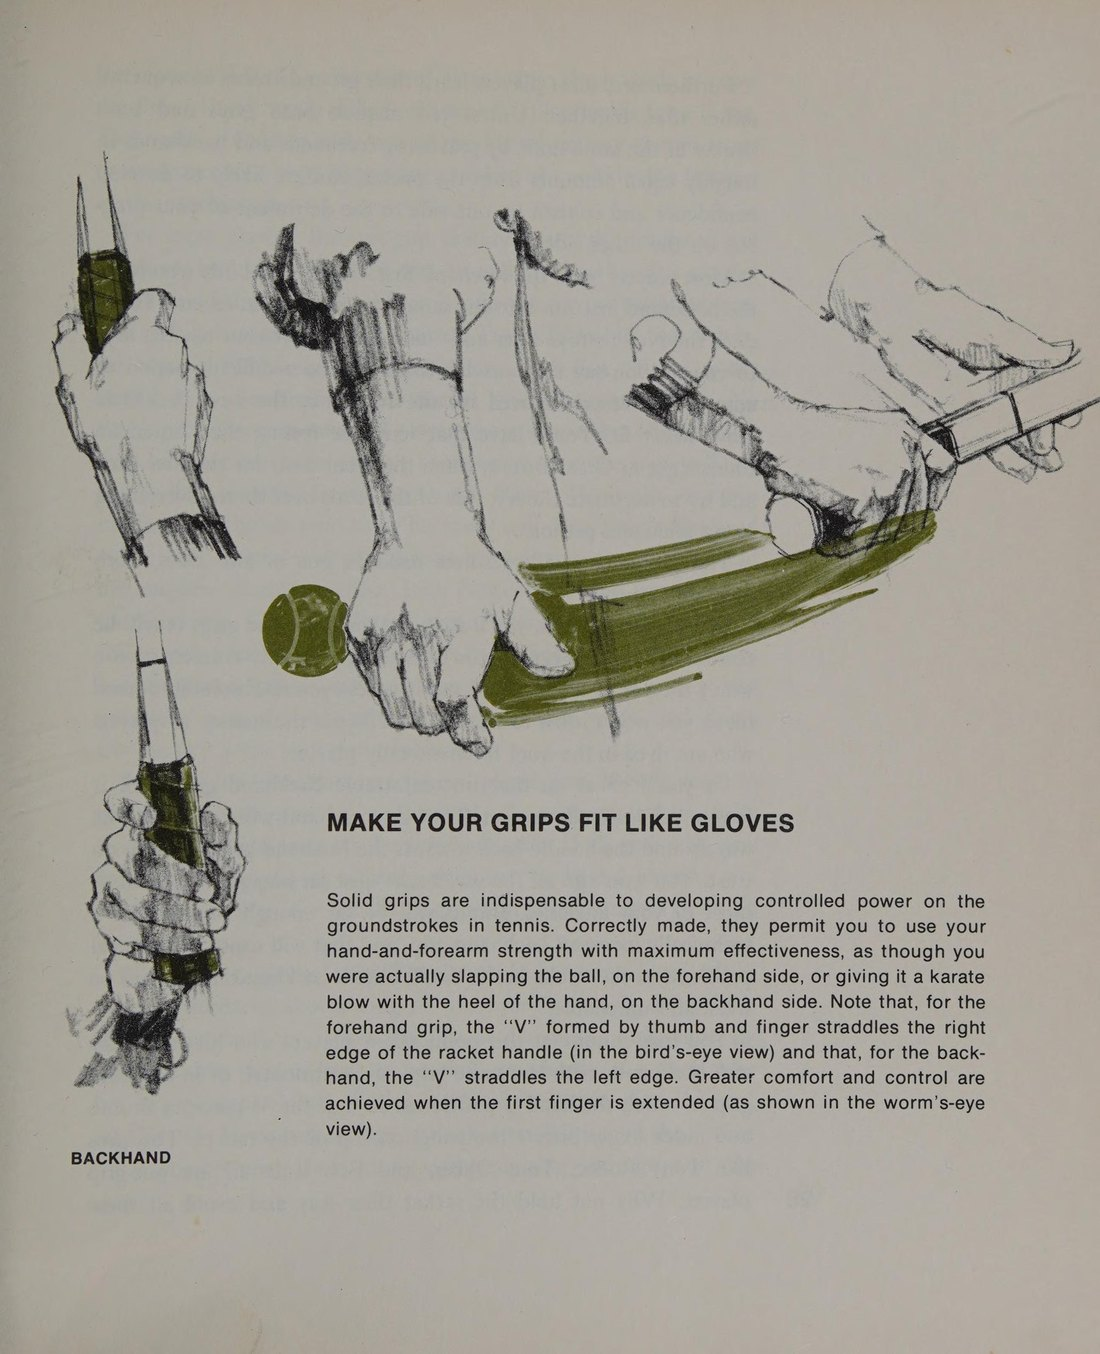
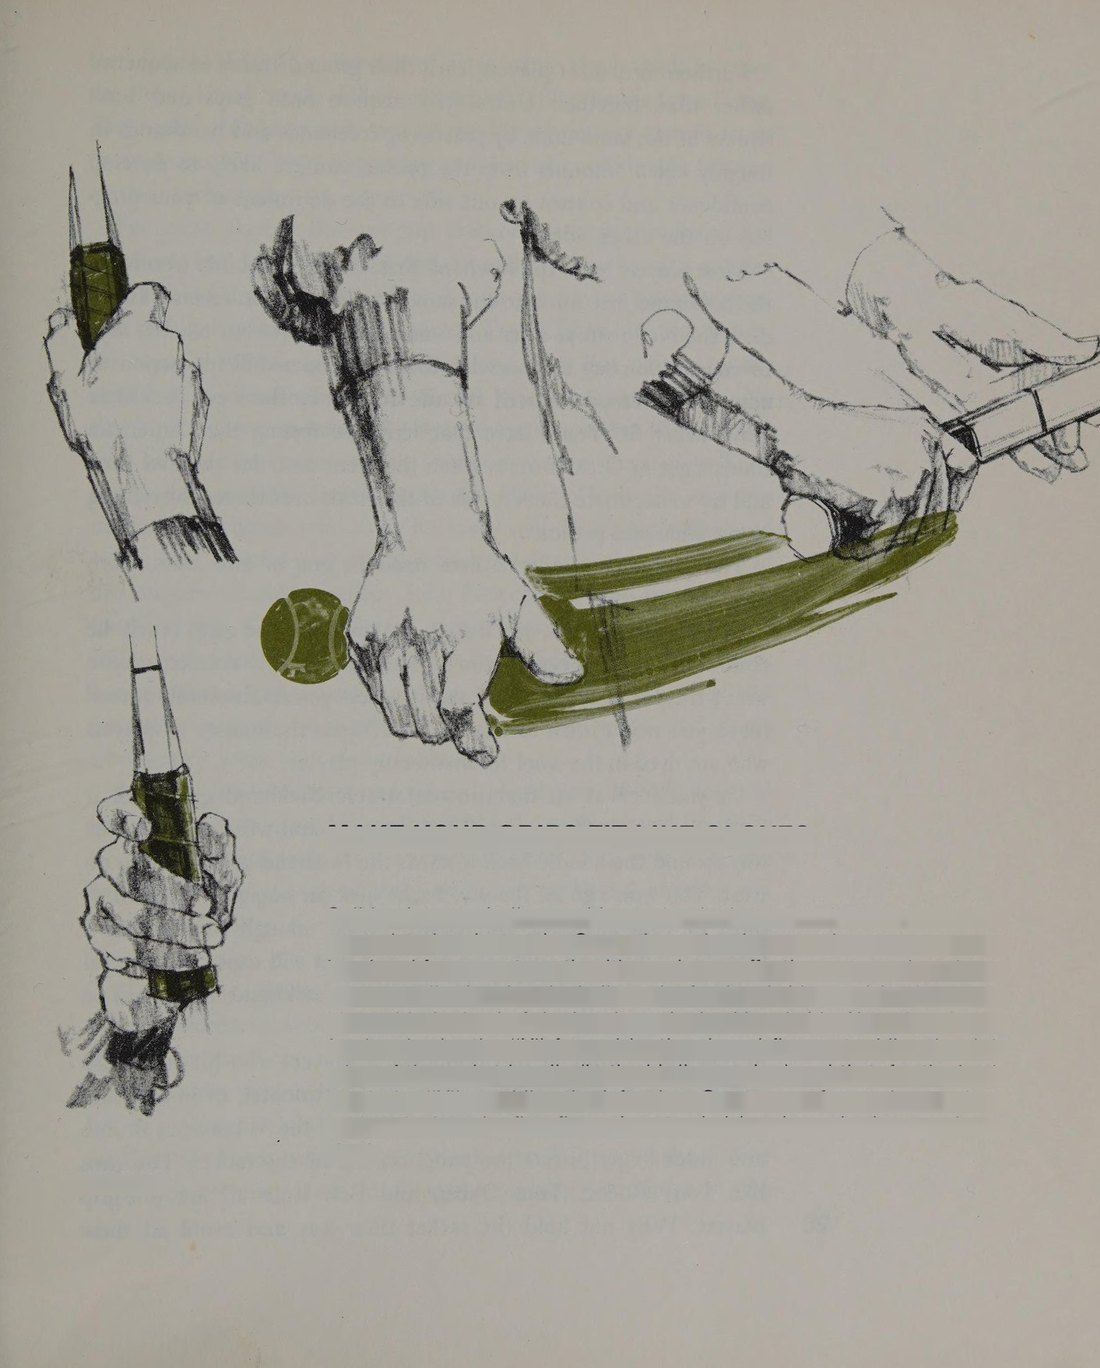
kb: re-crop the Kramer plates so the illustrations carry no body text, and add the missed p22 illustration
The 27 plates were whole-page scans: each included the printed headline and a block of English prose. They are now cropped to the artwork with the page text inpainted out, and the page-22 racket-brush illustration (missed by the first pass) is added. Page figures: 27 -> 28.

diff --git a/vi/books/how_to_play_your_best_tennis_all_the_time_vi.html b/vi/books/how_to_play_your_best_tennis_all_the_time_vi.html
@@ -482,13 +482,13 @@ aside.reader-sidebar, aside.sidebar, aside.book-sidebar, aside.toc-sidebar,
 
         <main class="main-article">
             <div class="hero-banner">
-                <span class="hero-badge">Bản Dịch Toàn Văn &middot; Trọn Bộ 39 Chương &amp; 27 Sơ Đồ Gốc</span>
+                <span class="hero-badge">Bản Dịch Toàn Văn &middot; Trọn Bộ 39 Chương &amp; 28 Sơ Đồ Gốc</span>
                 <h1 class="hero-title">Chơi Thứ Quần Vợt Xuất Sắc Nhất Của Bạn</h1>
                 <p class="hero-subtitle">Bản dịch tiếng Việt trọn vẹn cuốn <em>How to Play Your Best Tennis All the Time</em> của huyền thoại Grand Slam Jack Kramer &amp; Larry Sheehan (Andre Deutsch, London, 1977), với minh họa gốc của Ray Caram &mdash; triết lý Percentage Tennis, chuẩn hóa vùng điểm chạm bóng, quả giao bóng xoáy ngang và lối chơi tấn công The Big Game.</p>
                 <div class="hero-meta">
                     <span><i class="fa-solid fa-user"></i> Tác giả: Jack Kramer &amp; Larry Sheehan</span>
                     <span><i class="fa-solid fa-book"></i> 39 chương trọn vẹn &middot; 5 phần</span>
-                    <span><i class="fa-solid fa-image"></i> 27 sơ đồ minh họa gốc</span>
+                    <span><i class="fa-solid fa-image"></i> 28 sơ đồ minh họa gốc</span>
                 </div>
             </div>
 
@@ -609,6 +609,12 @@ aside.reader-sidebar, aside.sidebar, aside.book-sidebar, aside.toc-sidebar,
     <p>Tuy nhiên, nếu không có khả năng chạm đất, tôi sẽ không thể duy trì đủ áp lực lên đối thủ khi trả giao bóng cho họ, và trên các bề mặt chậm, trò chơi sức mạnh của tôi thường sẽ bị vô hiệu hóa bởi những cú chuyền bóng của họ. Khi hoàn cảnh bắt buộc, tôi có thể từ bỏ trò chơi trên lưới và chỉ thực hiện những đường bóng ngắn - giống như Tilden và những người khác đã làm.</p>
     <p>Mặc dù xu hướng này dường như đã bị đảo ngược, nhưng đã có lúc nhiều thanh niên ở đất nước này không muốn gì khác ngoài việc trở thành những cú đánh xoáy mạnh hơn.</p>
     <p>‘Các cú đánh xoáy lên có thể bị đánh trúng - và vẫn được giữ trên sân, và đó là lý do tại sao việc phát triển các cú chạm đất tạo ra xoáy lên ngay từ đầu là rất đáng giá.</p>
+    <figure class="book-figure" style="margin: 28px 0; text-align: center; clear: both;">
+      <div style="display:inline-block; max-width:100%; background:#fff; border:1px solid #e2e8f0; border-radius:10px; padding:12px;">
+        <img src="kramer_tennis_assets/plate_p022.jpg" alt="Vợt quét lên lưng bóng sinh ra xoáy lên, quét xuống sinh ra xoáy xuống — hướng quét của mặt vợt quyết định loại xoáy." loading="lazy" style="max-width:100%; height:auto; border-radius:6px; display:block; margin:0 auto;" />
+        <figcaption style="margin-top:10px; font-size:.9em; color:#475569; text-align:left; line-height:1.5;">Vợt quét lên lưng bóng sinh ra xoáy lên, quét xuống sinh ra xoáy xuống — hướng quét của mặt vợt quyết định loại xoáy.</figcaption>
+      </div>
+    </figure>
     <figure class="book-figure" style="margin: 28px 0; text-align: center; clear: both;">
       <div style="display:inline-block; max-width:100%; background:#fff; border:1px solid #e2e8f0; border-radius:10px; padding:12px;">
         <img src="kramer_tennis_assets/plate_p028.jpg" alt="Những lợi thế chiến thuật của xoáy lên: bóng lên cao và xuống gấp giúp mở rộng vùng an toàn trên lưới." loading="lazy" style="max-width:100%; height:auto; border-radius:6px; display:block; margin:0 auto;" />
